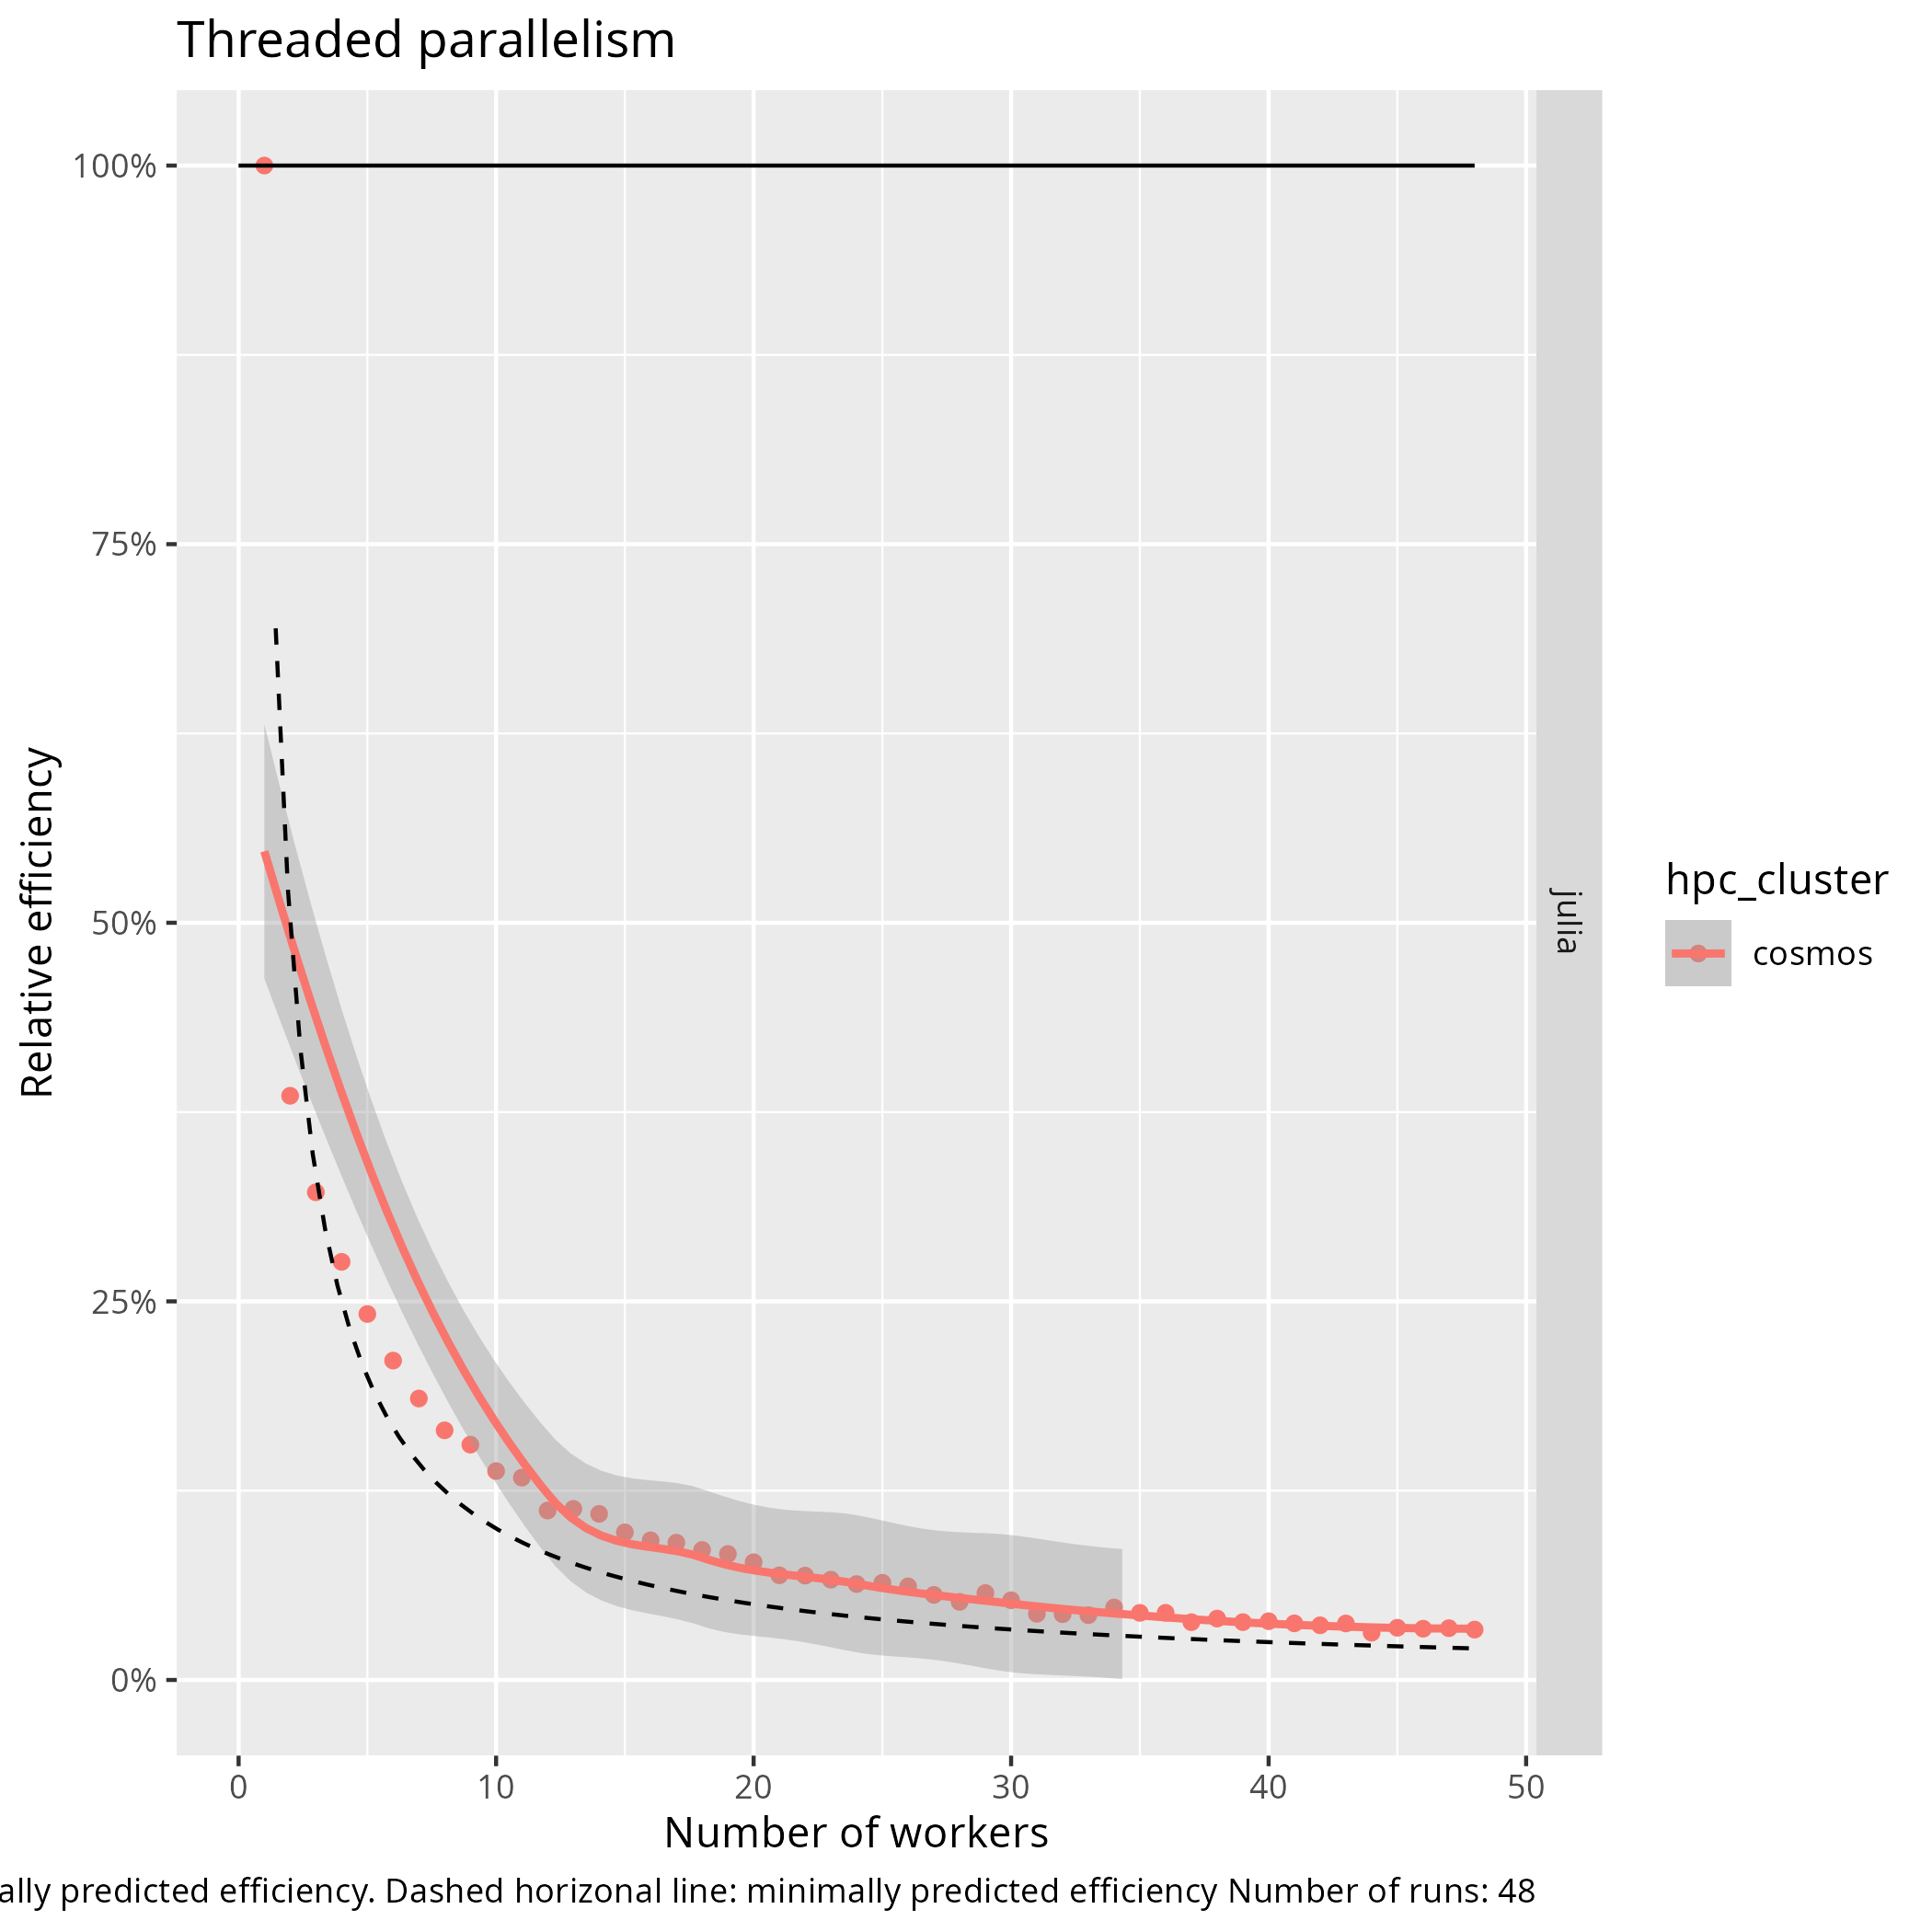
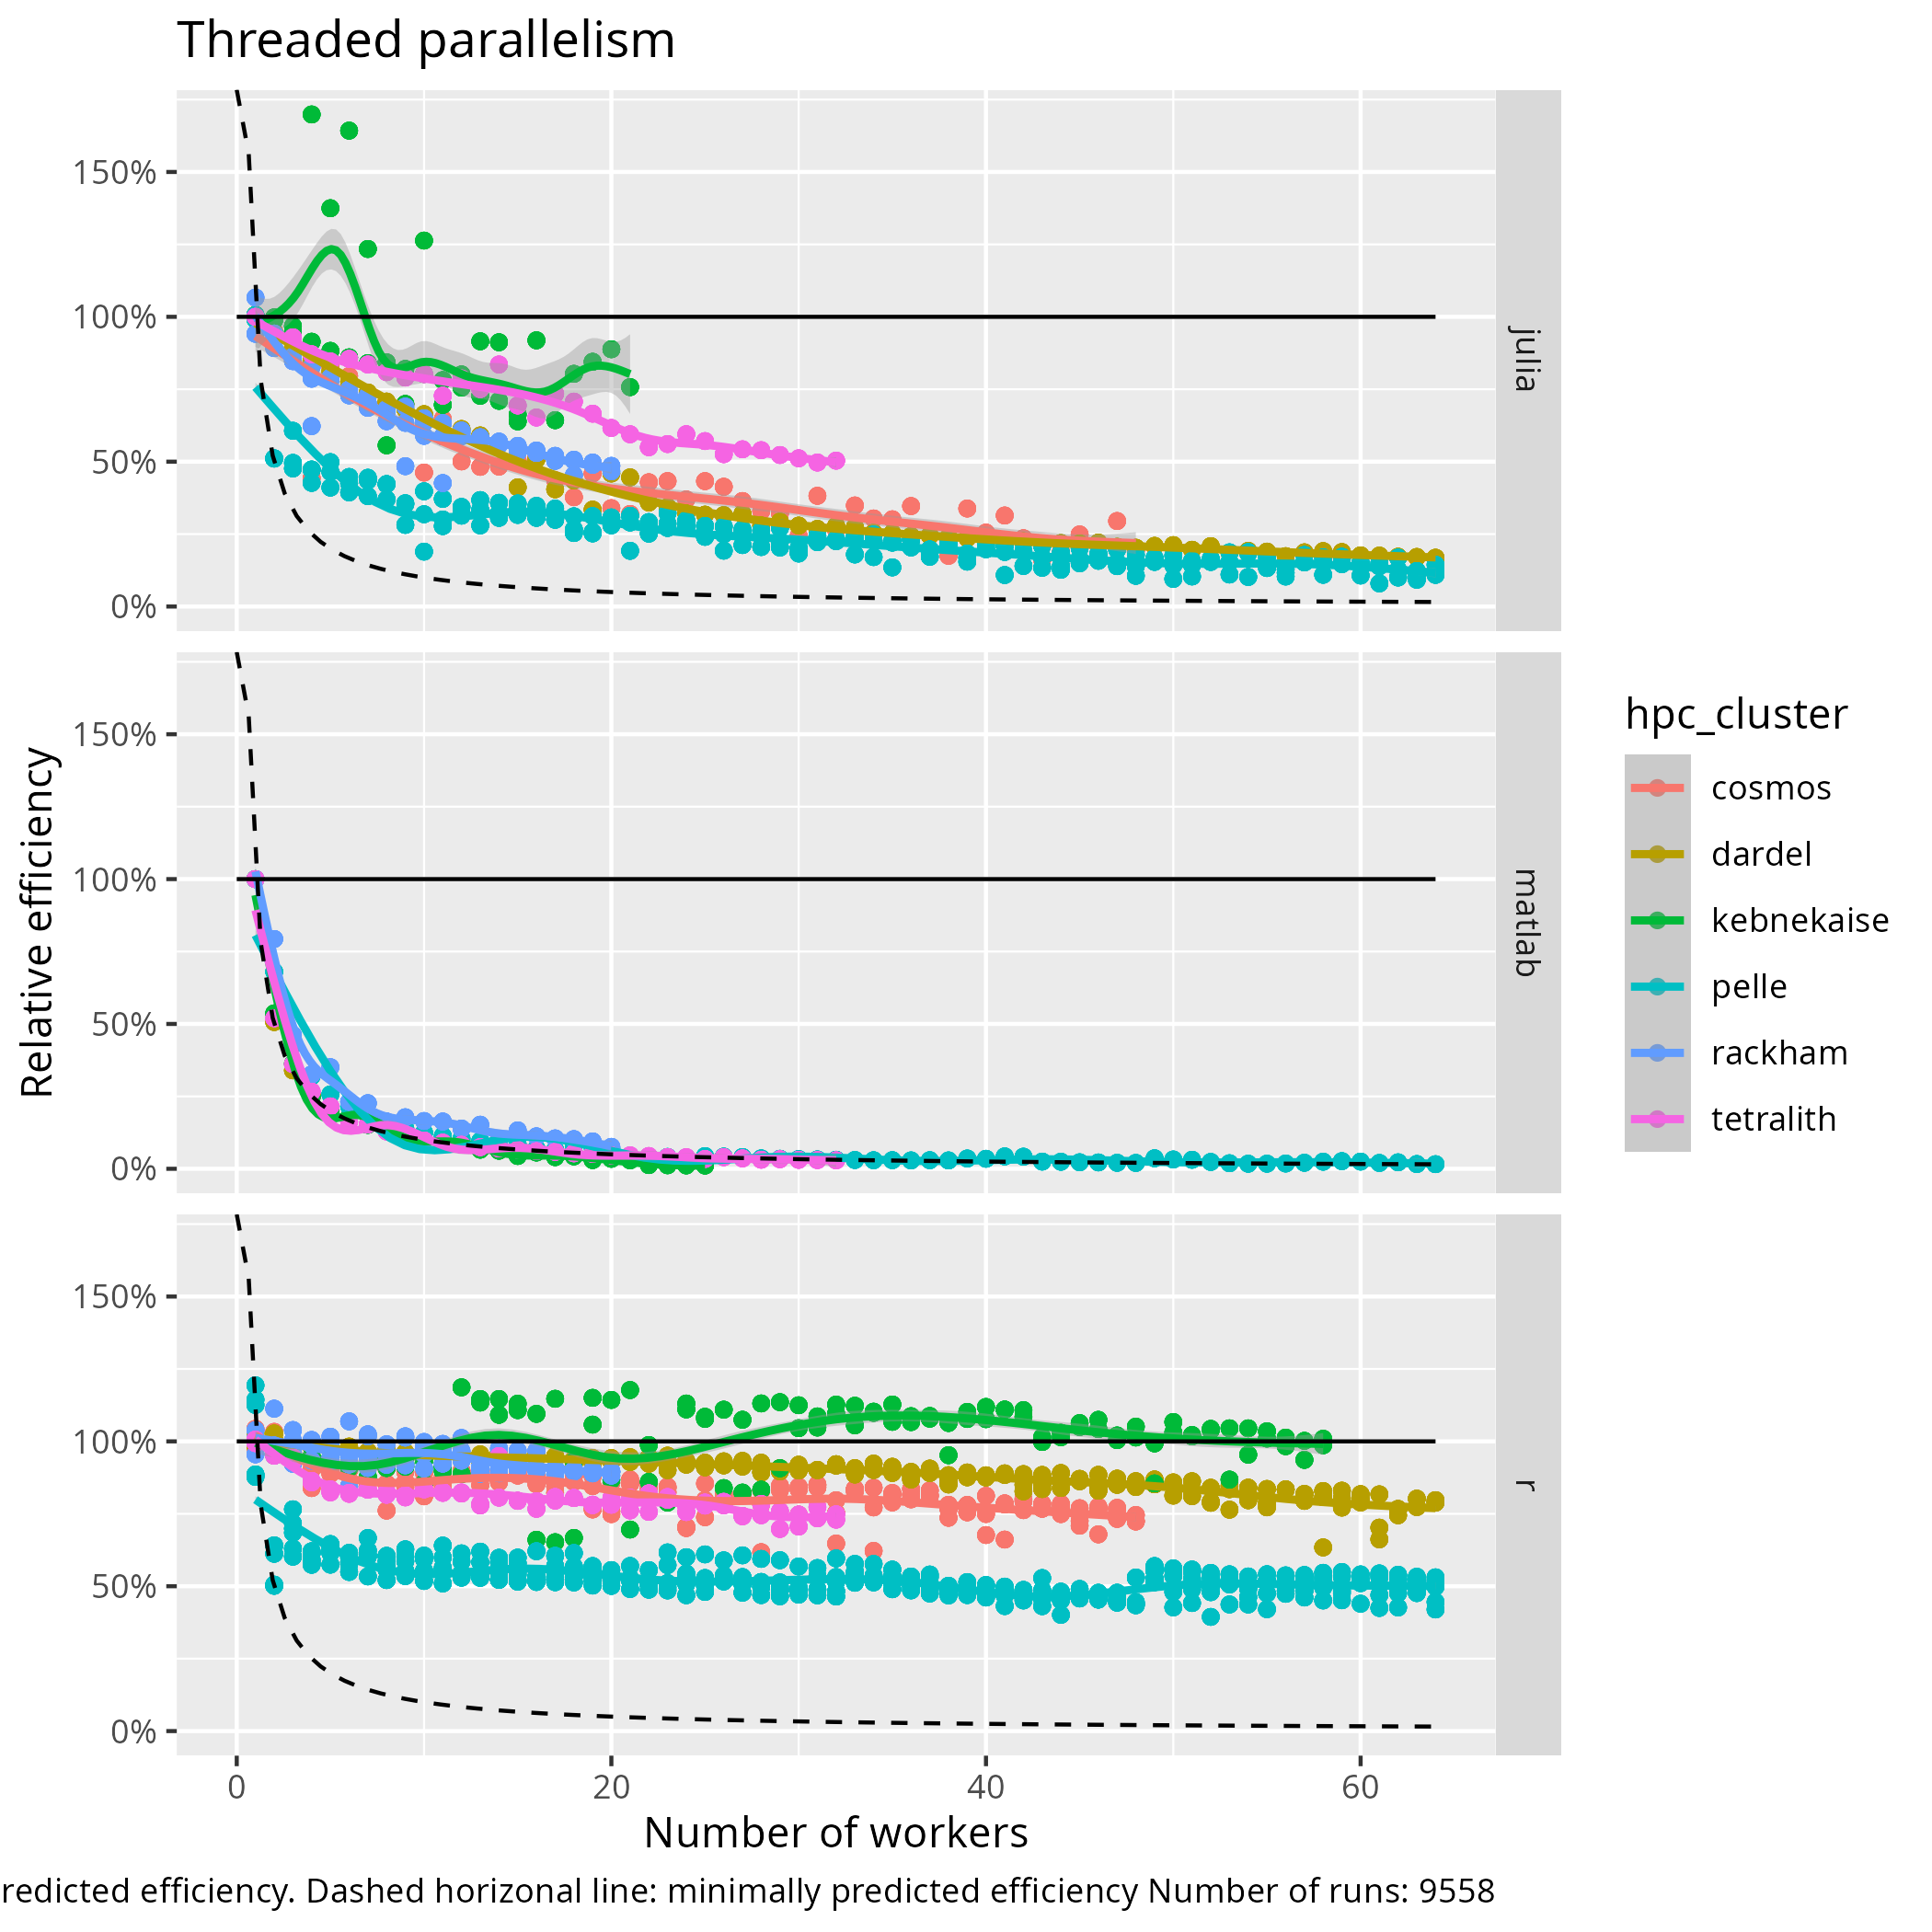
Use correct figures

diff --git a/docs/intermediate/efficient_jobs/README.md b/docs/intermediate/efficient_jobs/README.md
@@ -572,3 +572,9 @@ Which percentage of that code could be run in parallel?
     it means that 50% of the code can be run in parallel.
 
     So, for the same code, we get different answers :-/
+
+## Conclusion
+
+- Single-core jobs are the most efficient use of resources
+- Memory is more important than CPU
+- 